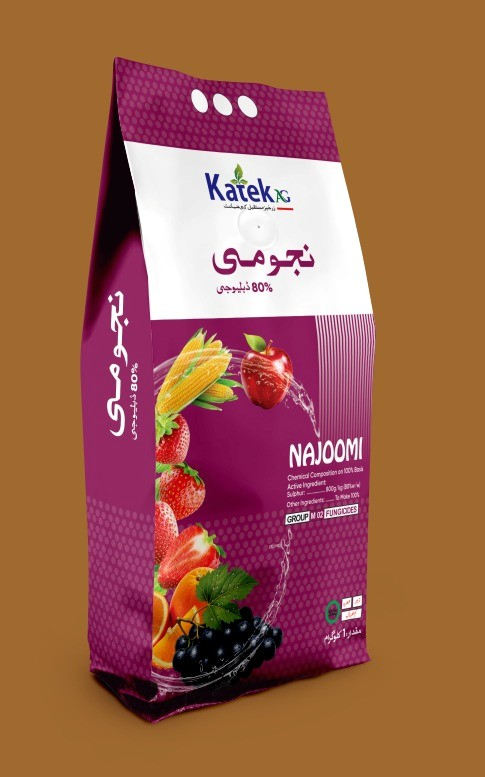
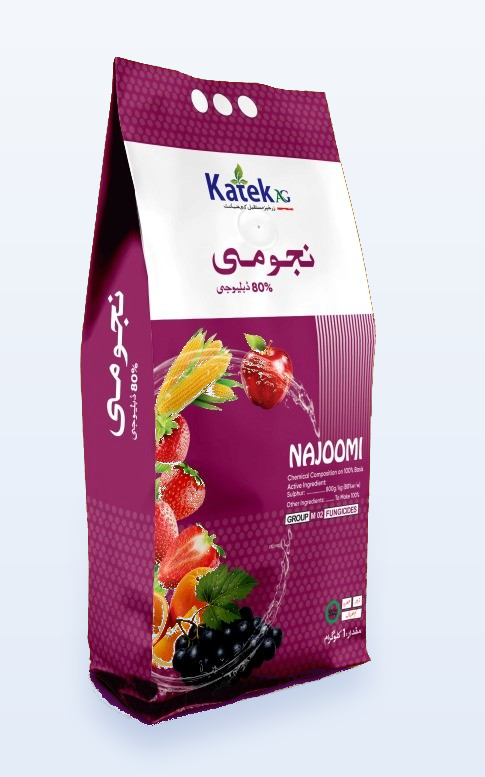
Put the Najoomi bag on the same light shelf as the other products.
The brown studio background is gone so the pack reads clearly on the blue and white theme.

diff --git a/where.html b/where.html
@@ -6,7 +6,7 @@
   <link rel="icon" href="assets/logo.png">
   <link href="https://fonts.googleapis.com/css2?family=Hind:wght@400;600&family=PT+Sans:wght@400;700&display=swap" rel="stylesheet">
   <link rel="stylesheet" href="https://unpkg.com/leaflet@1.9.4/dist/leaflet.css">
-  <link rel="stylesheet" href="css/styles.css?v=31">
+  <link rel="stylesheet" href="css/styles.css?v=33">
   <script>(function(){var l=localStorage.getItem("katek-lang")||"en";var ur=l==="ur";document.documentElement.lang=ur?"ur":"en";document.documentElement.dir=ur?"rtl":"ltr";if(ur){var s=document.createElement("link");s.id="urdu-font";s.rel="stylesheet";s.href="https://fonts.googleapis.com/css2?family=Noto+Nastaliq+Urdu:wght@500&display=swap";document.head.appendChild(s);}})();</script>
 </head>
 <body data-page="where">
@@ -35,6 +35,6 @@
   <div data-footer></div>
   <script src="https://unpkg.com/leaflet@1.9.4/dist/leaflet.js"></script>
   <script src="js/network.js?v=12"></script>
-  <script src="js/site.js?v=31"></script>
+  <script src="js/site.js?v=33"></script>
 </body>
 </html>

diff --git a/index.html b/index.html
@@ -10,7 +10,7 @@
   <link rel="preconnect" href="https://fonts.gstatic.com" crossorigin>
   <link rel="preload" as="image" href="assets/brand-products.jpg" fetchpriority="high">
   <link href="https://fonts.googleapis.com/css2?family=Hind:wght@400;600&family=PT+Sans:wght@400;700&display=swap" rel="stylesheet">
-  <link rel="stylesheet" href="css/styles.css?v=31">
+  <link rel="stylesheet" href="css/styles.css?v=33">
   <script>(function(){var l=localStorage.getItem("katek-lang")||"en";var ur=l==="ur";document.documentElement.lang=ur?"ur":"en";document.documentElement.dir=ur?"rtl":"ltr";if(ur){var s=document.createElement("link");s.id="urdu-font";s.rel="stylesheet";s.href="https://fonts.googleapis.com/css2?family=Noto+Nastaliq+Urdu:wght@500&display=swap";document.head.appendChild(s);}})();</script>
 </head>
 <body data-page="home">
@@ -158,6 +158,6 @@
     </section>
   </main>
   <div data-footer></div>
-  <script src="js/site.js?v=31"></script>
+  <script src="js/site.js?v=33"></script>
 </body>
 </html>

diff --git a/product.html b/product.html
@@ -5,7 +5,7 @@
   <title>Product · Katek</title>
   <link rel="icon" href="assets/logo.png">
   <link href="https://fonts.googleapis.com/css2?family=Hind:wght@400;600&family=PT+Sans:wght@400;700&display=swap" rel="stylesheet">
-  <link rel="stylesheet" href="css/styles.css?v=31">
+  <link rel="stylesheet" href="css/styles.css?v=33">
   <script>(function(){var l=localStorage.getItem("katek-lang")||"en";var ur=l==="ur";document.documentElement.lang=ur?"ur":"en";document.documentElement.dir=ur?"rtl":"ltr";if(ur){var s=document.createElement("link");s.id="urdu-font";s.rel="stylesheet";s.href="https://fonts.googleapis.com/css2?family=Noto+Nastaliq+Urdu:wght@500&display=swap";document.head.appendChild(s);}})();</script>
 </head>
 <body data-page="product">
@@ -13,6 +13,6 @@
   <div data-header></div>
   <main id="main" class="band"><div class="wrap prose" data-product></div></main>
   <div data-footer></div>
-  <script src="js/site.js?v=31"></script>
+  <script src="js/site.js?v=33"></script>
 </body>
 </html>

diff --git a/article.html b/article.html
@@ -5,7 +5,7 @@
   <title>News · Katek</title>
   <link rel="icon" href="assets/logo.png">
   <link href="https://fonts.googleapis.com/css2?family=Hind:wght@400;600&family=PT+Sans:wght@400;700&display=swap" rel="stylesheet">
-  <link rel="stylesheet" href="css/styles.css?v=31">
+  <link rel="stylesheet" href="css/styles.css?v=33">
   <script>(function(){var l=localStorage.getItem("katek-lang")||"en";var ur=l==="ur";document.documentElement.lang=ur?"ur":"en";document.documentElement.dir=ur?"rtl":"ltr";if(ur){var s=document.createElement("link");s.id="urdu-font";s.rel="stylesheet";s.href="https://fonts.googleapis.com/css2?family=Noto+Nastaliq+Urdu:wght@500&display=swap";document.head.appendChild(s);}})();</script>
 </head>
 <body data-page="article">
@@ -13,6 +13,6 @@
   <div data-header></div>
   <main id="main" class="band"><div class="wrap" data-article></div></main>
   <div data-footer></div>
-  <script src="js/site.js?v=31"></script>
+  <script src="js/site.js?v=33"></script>
 </body>
 </html>

diff --git a/guide.html b/guide.html
@@ -5,7 +5,7 @@
   <title>Guide · Katek</title>
   <link rel="icon" href="assets/logo.png">
   <link href="https://fonts.googleapis.com/css2?family=Hind:wght@400;600&family=PT+Sans:wght@400;700&display=swap" rel="stylesheet">
-  <link rel="stylesheet" href="css/styles.css?v=31">
+  <link rel="stylesheet" href="css/styles.css?v=33">
   <script>(function(){var l=localStorage.getItem("katek-lang")||"en";var ur=l==="ur";document.documentElement.lang=ur?"ur":"en";document.documentElement.dir=ur?"rtl":"ltr";if(ur){var s=document.createElement("link");s.id="urdu-font";s.rel="stylesheet";s.href="https://fonts.googleapis.com/css2?family=Noto+Nastaliq+Urdu:wght@500&display=swap";document.head.appendChild(s);}})();</script>
 </head>
 <body data-page="guide">
@@ -13,6 +13,6 @@
   <div data-header></div>
   <main id="main" class="band"><div class="wrap" data-guide></div></main>
   <div data-footer></div>
-  <script src="js/site.js?v=31"></script>
+  <script src="js/site.js?v=33"></script>
 </body>
 </html>

diff --git a/css/styles.css b/css/styles.css
@@ -318,9 +318,21 @@ html[lang="ur"] .product .tag {
   margin: 0.4rem 0 0.35rem;
 }
 .product .summary { margin: 0; color: var(--muted); }
-.pack-photo { display: block; margin: -1.35rem -1.2rem 0.85rem; background: #8a5a2b; }
+.pack-photo {
+  display: block;
+  margin: -1.35rem -1.2rem 0.85rem;
+  background:
+    radial-gradient(ellipse at 50% 88%, rgba(8, 47, 134, 0.14), transparent 58%),
+    linear-gradient(#f4f7fb, #e4ecf8);
+}
 .pack-photo img { width: 100%; height: 280px; object-fit: contain; }
-.product-shot { width: min(360px, 100%); height: auto; margin: 0 auto 1rem; background: #8a5a2b; }
+.product-shot {
+  display: block;
+  width: min(420px, 100%);
+  height: auto;
+  margin: 0 auto 1.15rem;
+  background: #f4f7fb;
+}
 .claim { display: grid; gap: 0.4rem; margin-top: 0.75rem; }
 .claim p { margin: 0; padding: 0.5rem 0.6rem; }
 .claim b { display: block; margin-bottom: 0.15rem; font-size: 0.72rem; letter-spacing: 0.08em; text-transform: uppercase; color: #082f86; }

diff --git a/contract.html b/contract.html
@@ -5,7 +5,7 @@
   <title>Contract Manufacturing · Katek</title>
   <link rel="icon" href="assets/logo.png">
   <link href="https://fonts.googleapis.com/css2?family=Hind:wght@400;600&family=PT+Sans:wght@400;700&display=swap" rel="stylesheet">
-  <link rel="stylesheet" href="css/styles.css?v=31">
+  <link rel="stylesheet" href="css/styles.css?v=33">
   <script>(function(){var l=localStorage.getItem("katek-lang")||"en";var ur=l==="ur";document.documentElement.lang=ur?"ur":"en";document.documentElement.dir=ur?"rtl":"ltr";if(ur){var s=document.createElement("link");s.id="urdu-font";s.rel="stylesheet";s.href="https://fonts.googleapis.com/css2?family=Noto+Nastaliq+Urdu:wght@500&display=swap";document.head.appendChild(s);}})();</script>
 </head>
 <body data-page="contract">
@@ -21,6 +21,6 @@
     </div>
   </main>
   <div data-footer></div>
-  <script src="js/site.js?v=31"></script>
+  <script src="js/site.js?v=33"></script>
 </body>
 </html>

diff --git a/services.html b/services.html
@@ -5,7 +5,7 @@
   <title>Products and Services · Katek</title>
   <link rel="icon" href="assets/logo.png">
   <link href="https://fonts.googleapis.com/css2?family=Hind:wght@400;600&family=PT+Sans:wght@400;700&display=swap" rel="stylesheet">
-  <link rel="stylesheet" href="css/styles.css?v=31">
+  <link rel="stylesheet" href="css/styles.css?v=33">
   <script>(function(){var l=localStorage.getItem("katek-lang")||"en";var ur=l==="ur";document.documentElement.lang=ur?"ur":"en";document.documentElement.dir=ur?"rtl":"ltr";if(ur){var s=document.createElement("link");s.id="urdu-font";s.rel="stylesheet";s.href="https://fonts.googleapis.com/css2?family=Noto+Nastaliq+Urdu:wght@500&display=swap";document.head.appendChild(s);}})();</script>
 </head>
 <body data-page="services">
@@ -59,6 +59,6 @@
     </div>
   </main>
   <div data-footer></div>
-  <script src="js/site.js?v=31"></script>
+  <script src="js/site.js?v=33"></script>
 </body>
 </html>

diff --git a/commercial.html b/commercial.html
@@ -5,7 +5,7 @@
   <title>Commercial Grower · Katek</title>
   <link rel="icon" href="assets/logo.png">
   <link href="https://fonts.googleapis.com/css2?family=Hind:wght@400;600&family=PT+Sans:wght@400;700&display=swap" rel="stylesheet">
-  <link rel="stylesheet" href="css/styles.css?v=31">
+  <link rel="stylesheet" href="css/styles.css?v=33">
   <script>(function(){var l=localStorage.getItem("katek-lang")||"en";var ur=l==="ur";document.documentElement.lang=ur?"ur":"en";document.documentElement.dir=ur?"rtl":"ltr";if(ur){var s=document.createElement("link");s.id="urdu-font";s.rel="stylesheet";s.href="https://fonts.googleapis.com/css2?family=Noto+Nastaliq+Urdu:wght@500&display=swap";document.head.appendChild(s);}})();</script>
 </head>
 <body data-page="commercial">
@@ -25,6 +25,6 @@
     </div>
   </main>
   <div data-footer></div>
-  <script src="js/site.js?v=31"></script>
+  <script src="js/site.js?v=33"></script>
 </body>
 </html>

diff --git a/home-gardener.html b/home-gardener.html
@@ -5,7 +5,7 @@
   <title>Home Gardener · Katek</title>
   <link rel="icon" href="assets/logo.png">
   <link href="https://fonts.googleapis.com/css2?family=Hind:wght@400;600&family=PT+Sans:wght@400;700&display=swap" rel="stylesheet">
-  <link rel="stylesheet" href="css/styles.css?v=31">
+  <link rel="stylesheet" href="css/styles.css?v=33">
   <script>(function(){var l=localStorage.getItem("katek-lang")||"en";var ur=l==="ur";document.documentElement.lang=ur?"ur":"en";document.documentElement.dir=ur?"rtl":"ltr";if(ur){var s=document.createElement("link");s.id="urdu-font";s.rel="stylesheet";s.href="https://fonts.googleapis.com/css2?family=Noto+Nastaliq+Urdu:wght@500&display=swap";document.head.appendChild(s);}})();</script>
 </head>
 <body data-page="homeGardener">
@@ -25,6 +25,6 @@
     </div>
   </main>
   <div data-footer></div>
-  <script src="js/site.js?v=31"></script>
+  <script src="js/site.js?v=33"></script>
 </body>
 </html>

diff --git a/testimonials.html b/testimonials.html
@@ -5,7 +5,7 @@
   <title>Testimonials · Katek</title>
   <link rel="icon" href="assets/logo.png">
   <link href="https://fonts.googleapis.com/css2?family=Hind:wght@400;600&family=PT+Sans:wght@400;700&display=swap" rel="stylesheet">
-  <link rel="stylesheet" href="css/styles.css?v=31">
+  <link rel="stylesheet" href="css/styles.css?v=33">
   <script>(function(){var l=localStorage.getItem("katek-lang")||"en";var ur=l==="ur";document.documentElement.lang=ur?"ur":"en";document.documentElement.dir=ur?"rtl":"ltr";if(ur){var s=document.createElement("link");s.id="urdu-font";s.rel="stylesheet";s.href="https://fonts.googleapis.com/css2?family=Noto+Nastaliq+Urdu:wght@500&display=swap";document.head.appendChild(s);}})();</script>
 </head>
 <body data-page="testimonials">
@@ -23,6 +23,6 @@
     </div>
   </main>
   <div data-footer></div>
-  <script src="js/site.js?v=31"></script>
+  <script src="js/site.js?v=33"></script>
 </body>
 </html>

diff --git a/difference.html b/difference.html
@@ -5,7 +5,7 @@
   <title>The Katek Difference</title>
   <link rel="icon" href="assets/logo.png">
   <link href="https://fonts.googleapis.com/css2?family=Hind:wght@400;600&family=PT+Sans:wght@400;700&display=swap" rel="stylesheet">
-  <link rel="stylesheet" href="css/styles.css?v=31">
+  <link rel="stylesheet" href="css/styles.css?v=33">
   <script>(function(){var l=localStorage.getItem("katek-lang")||"en";var ur=l==="ur";document.documentElement.lang=ur?"ur":"en";document.documentElement.dir=ur?"rtl":"ltr";if(ur){var s=document.createElement("link");s.id="urdu-font";s.rel="stylesheet";s.href="https://fonts.googleapis.com/css2?family=Noto+Nastaliq+Urdu:wght@500&display=swap";document.head.appendChild(s);}})();</script>
 </head>
 <body data-page="difference">
@@ -24,6 +24,6 @@
     </div>
   </main>
   <div data-footer></div>
-  <script src="js/site.js?v=31"></script>
+  <script src="js/site.js?v=33"></script>
 </body>
 </html>
